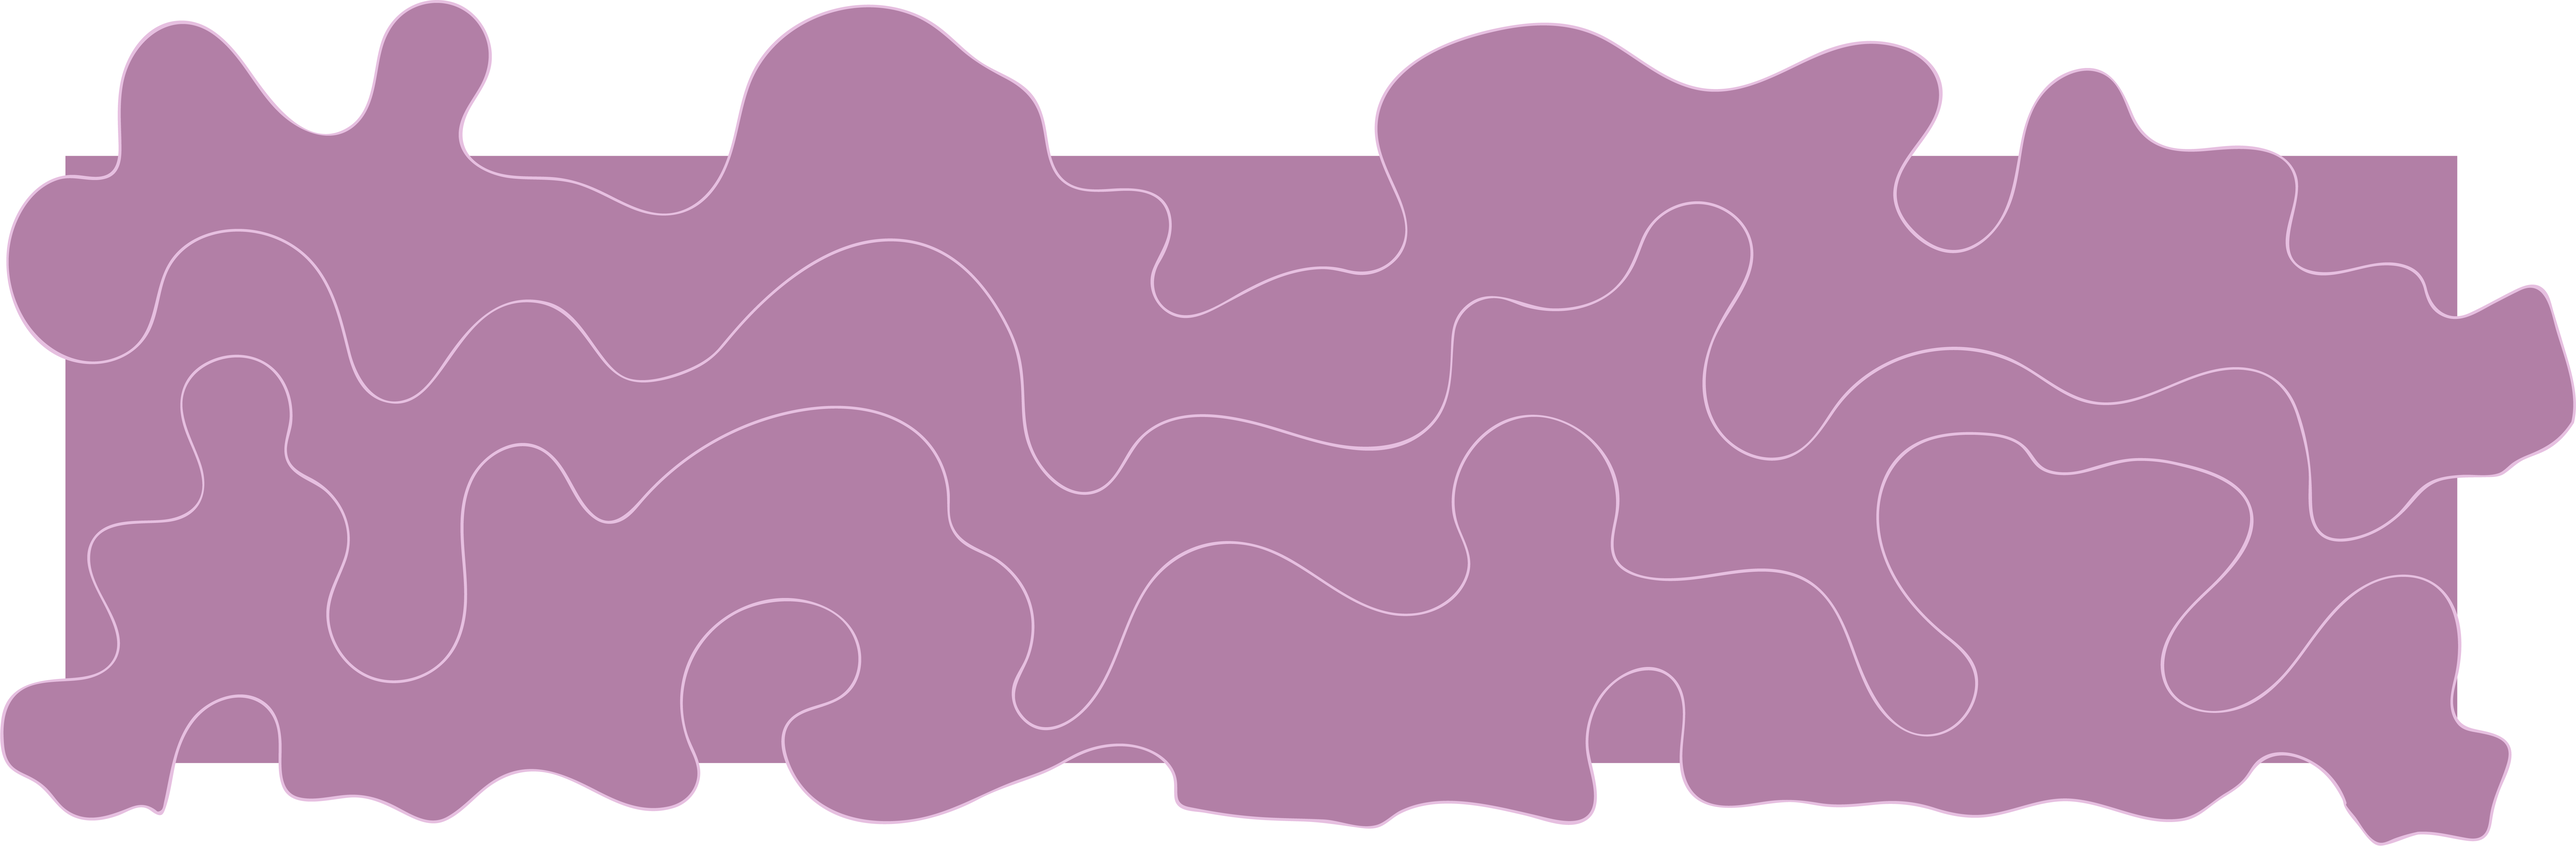
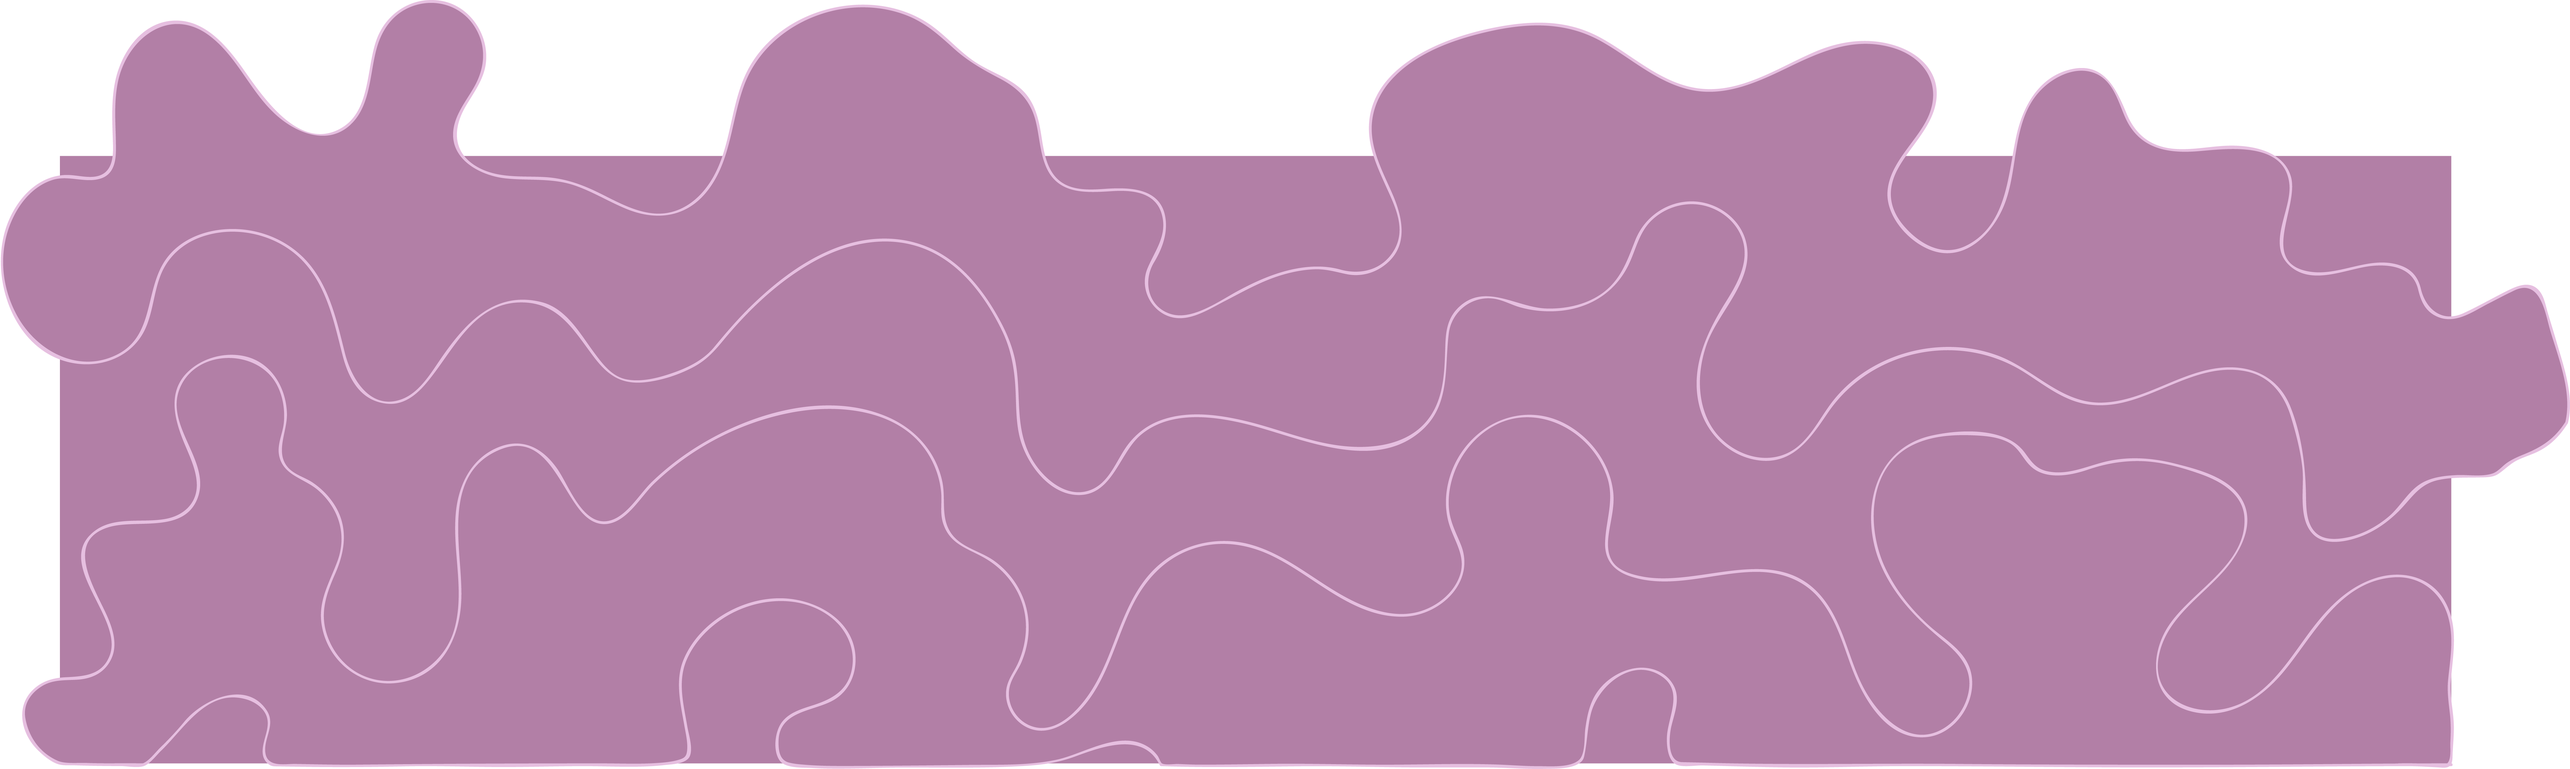
fixed more details

diff --git a/css/artworks.css b/css/artworks.css
@@ -20,23 +20,30 @@ body {
     margin-right: auto;
 }
 
+#squiggly {
+    max-width: 100%;
+    max-height: 100%;
+    width: 1770px;  
+    margin-top: 490px;
+}
+
 a {
     color: whitesmoke;
 }
 
 ul {
-    margin-top: 200px;
+    margin-top: 80px;
     background-color: #824E77;
     display: flex;
     position: static;
     justify-content: space-around;
+    height: 30px;
     width: 1770px;
-    height: 25px;
     top: 0px;
     padding: 10px;
     list-style: none;
     font-family: felipa, cursive;
-    font-size: 25px;
+    font-size: 35px;
     align-items: center;
 } 
 
@@ -44,6 +51,9 @@ ul {
 #color {
     width: 250px;        
     border: 5px solid black;
+    margin-left: 200px;
+    flex-direction: column;
+    margin-bottom: 20px;
 }
 
 #colorportrait {
@@ -55,6 +65,9 @@ ul {
 #sk {
     width: 250px;        
     border: 5px solid black;
+    margin-bottom: 100px;
+    flex-direction: column;
+    margin-left: 200px;
 }
 
 #skeleton {
@@ -62,9 +75,14 @@ ul {
     max-height: 100%;
     display: block;
 }
+
 #turtle {
     width: 250px;        
     border: 5px solid black;
+    flex-direction: column;
+    margin-left: 650px;
+    margin-top: -800px;
+    margin-bottom: 20px;
 }
 
 #cardboardturtle {
@@ -76,6 +94,8 @@ ul {
 #depth {
     width: 250px;        
     border: 5px solid black;
+    flex-direction: column;
+    margin-left: 650px;
 }
 
 #spatialdepth {
@@ -87,6 +107,9 @@ ul {
 #graphab {
     width: 250px;        
     border: 5px solid black;
+    flex-direction: column;
+    margin-left: 1100px;
+    margin-top: -450px;
 }
 
 #graphiteabstract {

diff --git a/css/aboutme.css b/css/aboutme.css
@@ -20,37 +20,47 @@ body {
     margin-right: auto;
 }
 
+#squiggly {
+    max-width: 100%;
+    max-height: 100%;
+    width: 1770px;  
+    margin-top: 490px;
+}
+
 a {
     color: whitesmoke;
 }
 
 ul {
-    margin-top: 200px;
+    margin-top: 80px;
     background-color: #824E77;
     display: flex;
     position: static;
     justify-content: space-around;
+    height: 30px;
     width: 1770px;
-    height: 25px;
     top: 0px;
     padding: 10px;
     list-style: none;
     font-family: felipa, cursive;
-    font-size: 25px;
+    font-size: 35px;
     align-items: center;
-}
+} 
 
 .one {
     background-color: #E6bFE0;
     justify-content: center;
     margin-left: 100px;
+    font-family: 'Asul', sans-serif;
+    padding: 10px;
+    font-size: 20px;
 }
 
 #first {
     justify-content: center;
     height: 360px;
     width: 660px;
-    margin-top: 100px;
+    margin-top: 40px;
 }
 
 #second {
@@ -60,6 +70,9 @@ ul {
     width: 660px;
     margin-left: 1000px;
     margin-top: -590px;
+    font-family: 'Asul', sans-serif;
+    padding: 10px;
+    font-size: 20px;
 }
 
 #third {

diff --git a/css/stylesheet.css b/css/stylesheet.css
@@ -20,16 +20,11 @@ body {
     margin-right: auto;
 }
 
-.top {
-   
-}
-
 #squiggly {
     max-width: 100%;
     max-height: 100%;
     width: 1770px;  
-    margin-top: -500px;
-   
+    margin-top: -490px;
 }
 
 h1 {
@@ -51,15 +46,14 @@ ul {
     display: flex;
     position: static;
     justify-content: space-around;
-    height: 25px;
+    height: 30px;
     width: 1770px;
     top: 0px;
     padding: 10px;
     list-style: none;
     font-family: felipa, cursive;
-    font-size: 25px;
+    font-size: 35px;
     align-items: center;
-    
 } 
 
 .one {
@@ -69,11 +63,15 @@ ul {
     background-color: #E6bFE0;
     justify-content: center;
     margin-left: 100px;
+    /* font-family: 'Space Mono', monospace; */
+    font-family: 'Asul', sans-serif;
+    padding: 10px;
+    font-size: 20px;
 }
 
 #first {
     justify-content: center;
-    height: 360px;
+    height: 300px;
     width: 662px;
     margin-top: 100px;
     /* border: solid 1px #824E77 */

diff --git a/index.html b/index.html
@@ -14,7 +14,8 @@
 <div id="main-container">
  
     <h1>Sara Zuniga Sosa</h1>
-    <div class="top"><img id="squiggly" src="images/squiggly.png"></div> <img  id="logo" src="images/Personal Logo 3.png" alt="logo" title="logo"/>
+    <div class="top"><img id="squiggly" src="images/squiggly.png"></div> 
+    <img  id="logo" src="images/Personal Logo 3.png" alt="logo" title="logo"/>
 <ul>
     <li><a href="index.html">Home</a></li>  
     <li><a href="artworks.html">Artworks</a></li> 

diff --git a/artworks.html b/artworks.html
@@ -9,6 +9,7 @@
 </head>
 <body>
     <div id="main-container">
+        <div class="top"><img id="squiggly" src="images/squiggly2.png"></div>
         <img  id="logo" src="images/Personal Logo 3.png" alt="logo" title="logo"/>
     <ul>
     <li><a href="index.html">Home</a></li>  

diff --git a/aboutme.html b/aboutme.html
@@ -9,6 +9,7 @@
 </head>
 <body>
     <div id="main-container">
+      <div class="top"><img id="squiggly" src="images/squiggly3.png"></div>
         <img  id="logo" src="images/Personal Logo 3.png" alt="logo" title="logo"/>
     <ul>
     <li><a href="index.html">Home</a></li>  
